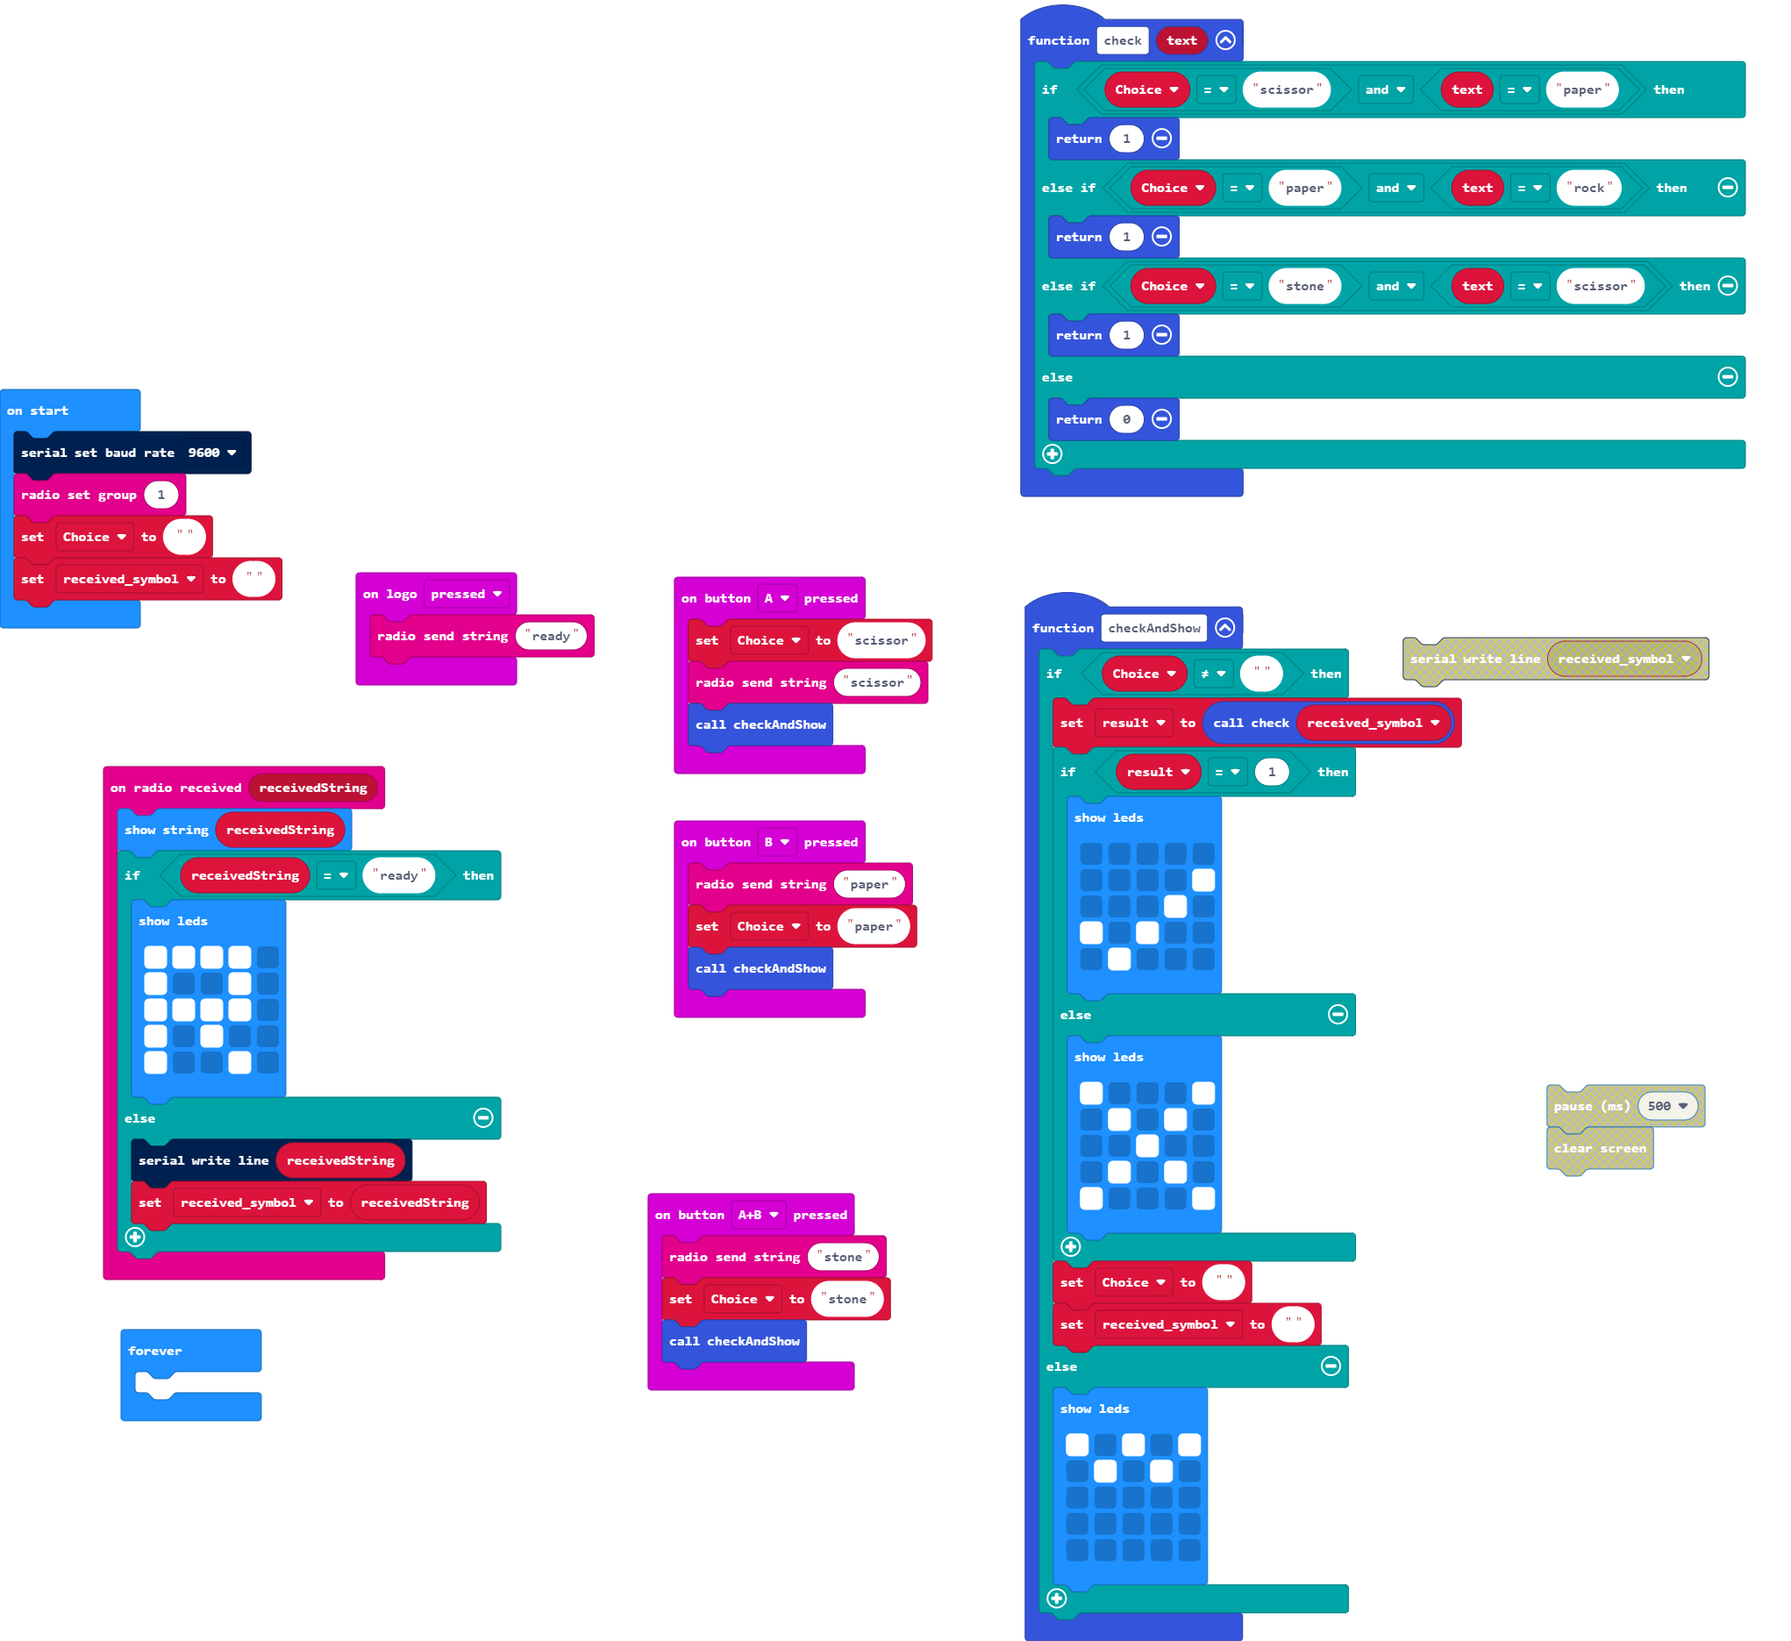
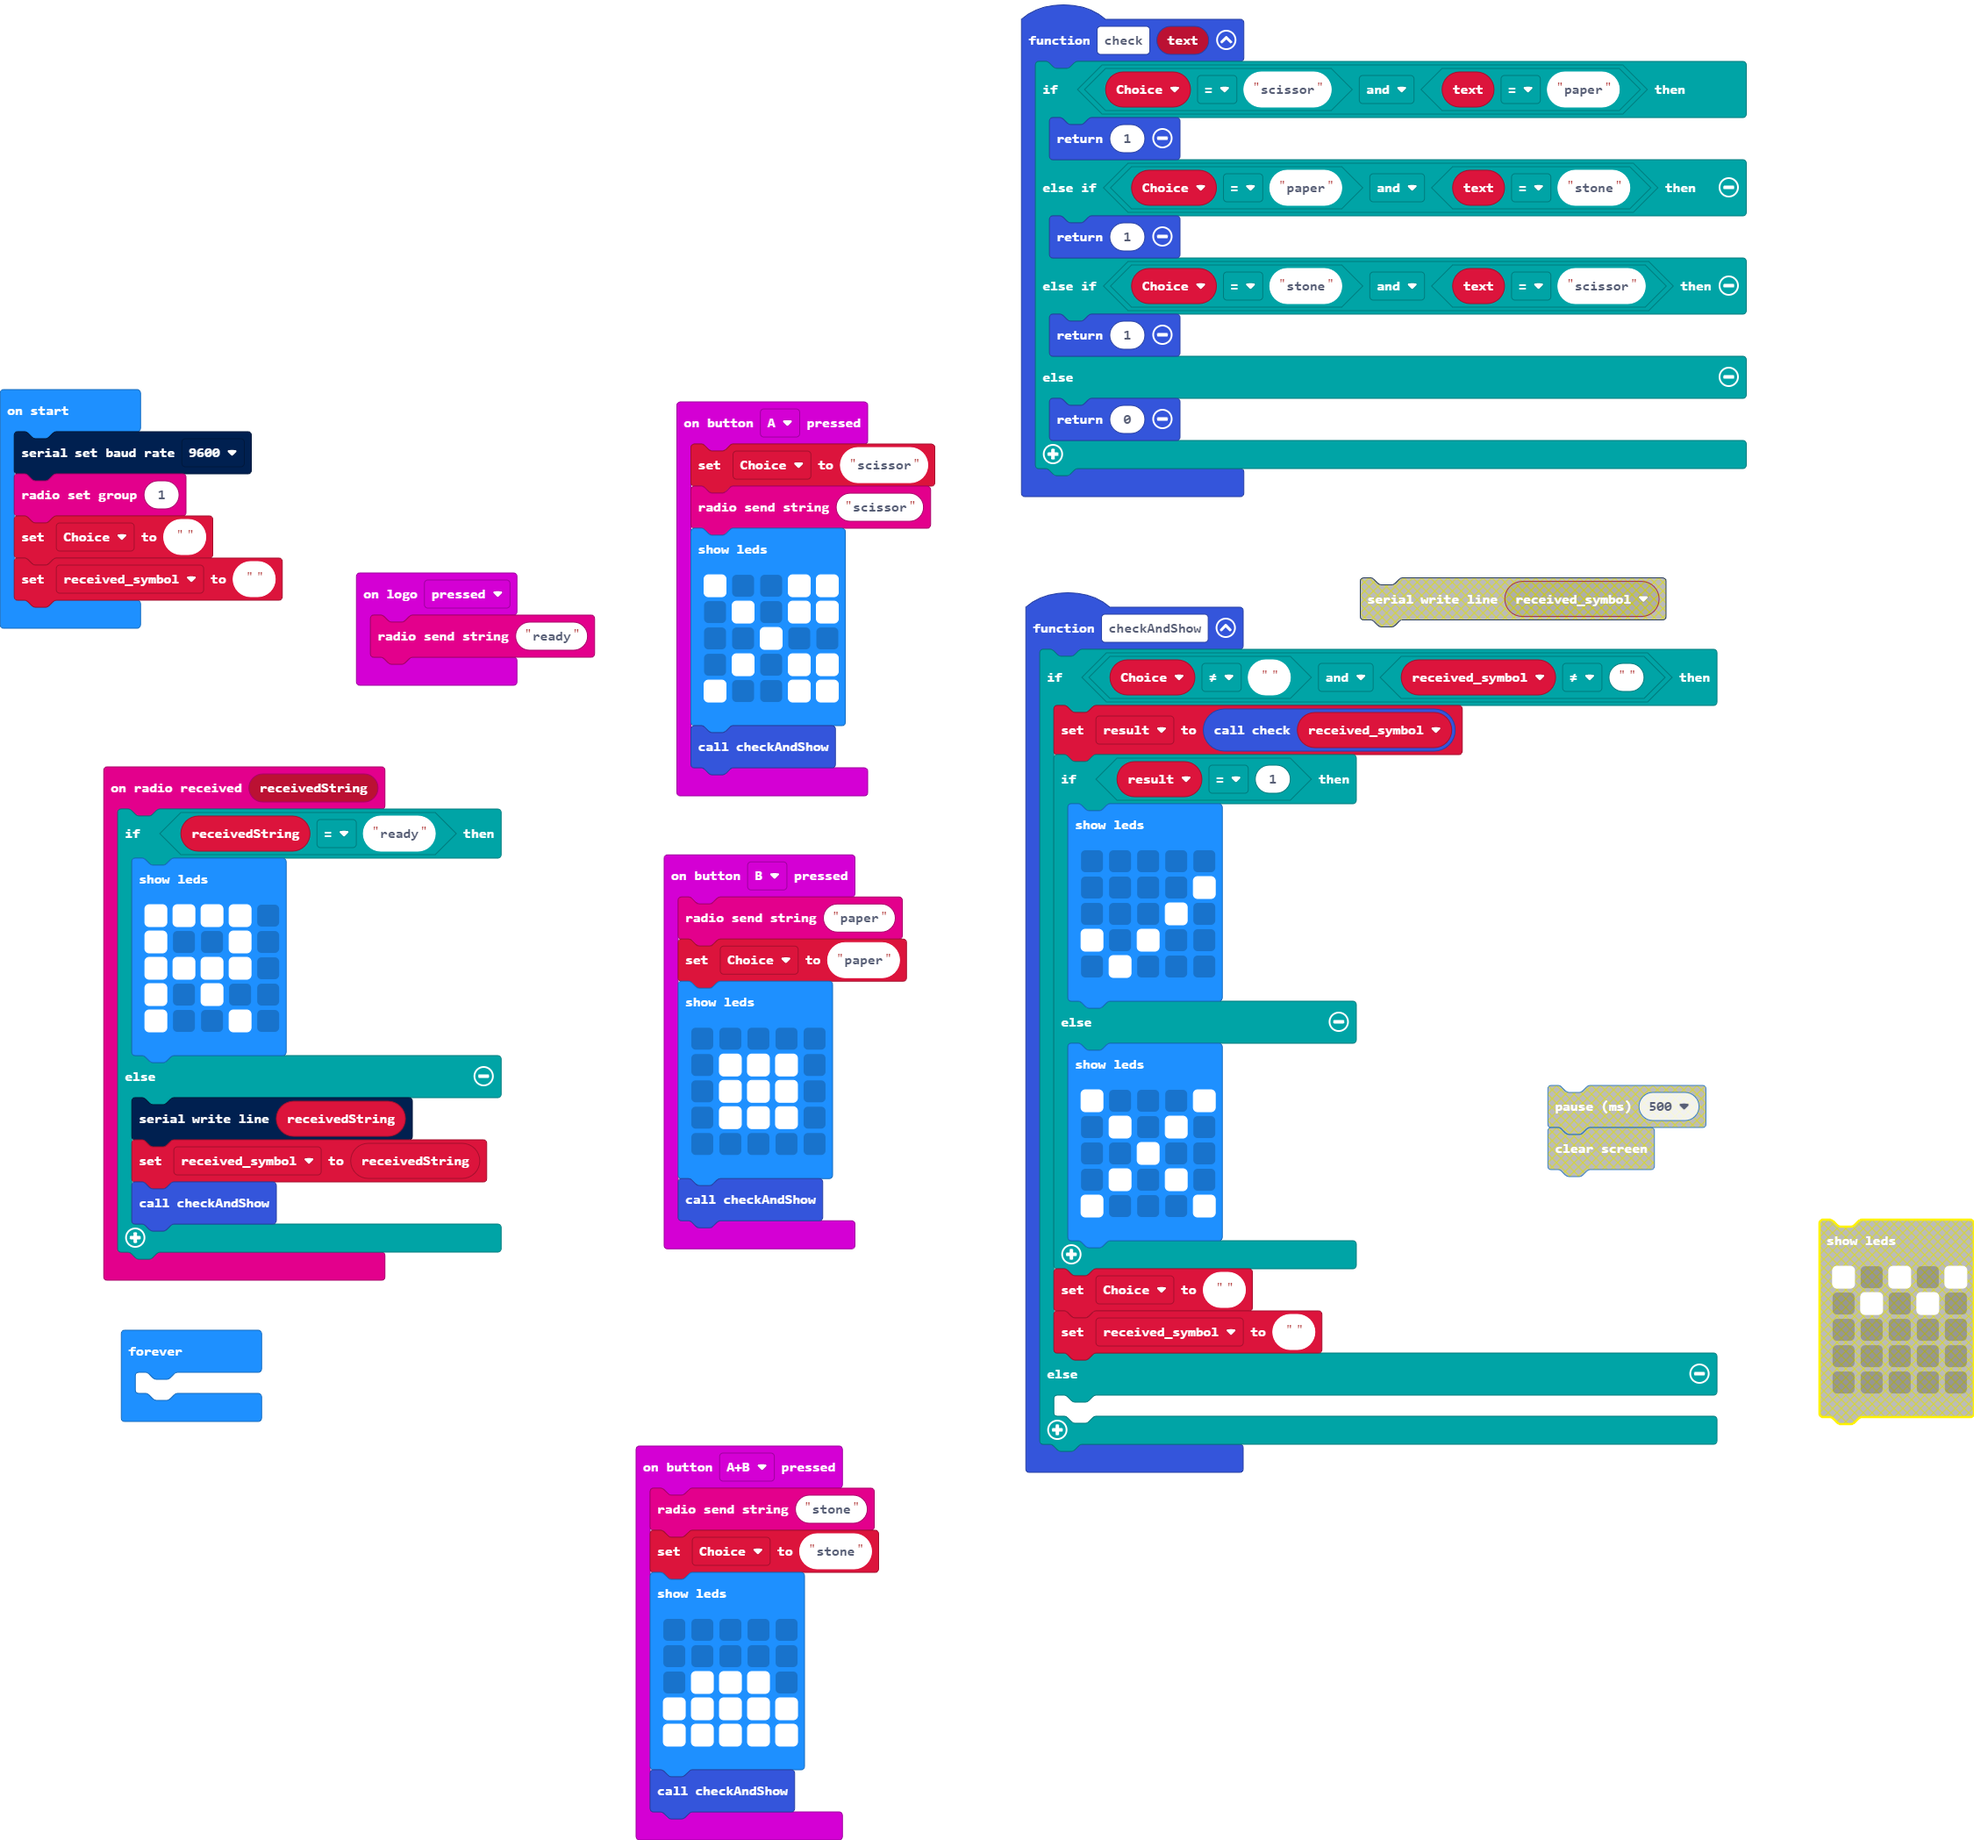
Added scissor paper stone pictures

diff --git a/main.ts b/main.ts
@@ -4,7 +4,7 @@ enum RadioMessage {
 function check (text: string) {
     if (Choice == "scissor" && text == "paper") {
         return 1
-    } else if (Choice == "paper" && text == "rock") {
+    } else if (Choice == "paper" && text == "stone") {
         return 1
     } else if (Choice == "stone" && text == "scissor") {
         return 1
@@ -13,7 +13,7 @@ function check (text: string) {
     }
 }
 function checkAndShow () {
-    if (Choice != "") {
+    if (Choice != "" && received_symbol != "") {
         result = check(received_symbol)
         if (result == 1) {
             basic.showLeds(`
@@ -35,27 +35,34 @@ function checkAndShow () {
         Choice = ""
         received_symbol = ""
     } else {
-        basic.showLeds(`
-            # . # . #
-            . # . # .
-            . . . . .
-            . . . . .
-            . . . . .
-            `)
+    	
     }
 }
 input.onButtonPressed(Button.A, function () {
     Choice = "scissor"
     radio.sendString("scissor")
+    basic.showLeds(`
+        # . . # #
+        . # . # #
+        . . # . .
+        . # . # #
+        # . . # #
+        `)
     checkAndShow()
 })
 input.onButtonPressed(Button.AB, function () {
     radio.sendString("stone")
     Choice = "stone"
+    basic.showLeds(`
+        . . . . .
+        . . . . .
+        . # # # .
+        # # # # #
+        # # # # #
+        `)
     checkAndShow()
 })
 radio.onReceivedString(function (receivedString) {
-    basic.showString(receivedString)
     if (receivedString == "ready") {
         basic.showLeds(`
             # # # # .
@@ -67,11 +74,19 @@ radio.onReceivedString(function (receivedString) {
     } else {
         serial.writeLine(receivedString)
         received_symbol = receivedString
+        checkAndShow()
     }
 })
 input.onButtonPressed(Button.B, function () {
     radio.sendString("paper")
     Choice = "paper"
+    basic.showLeds(`
+        . . . . .
+        . # # # .
+        . # # # .
+        . # # # .
+        . . . . .
+        `)
     checkAndShow()
 })
 input.onLogoEvent(TouchButtonEvent.Pressed, function () {
